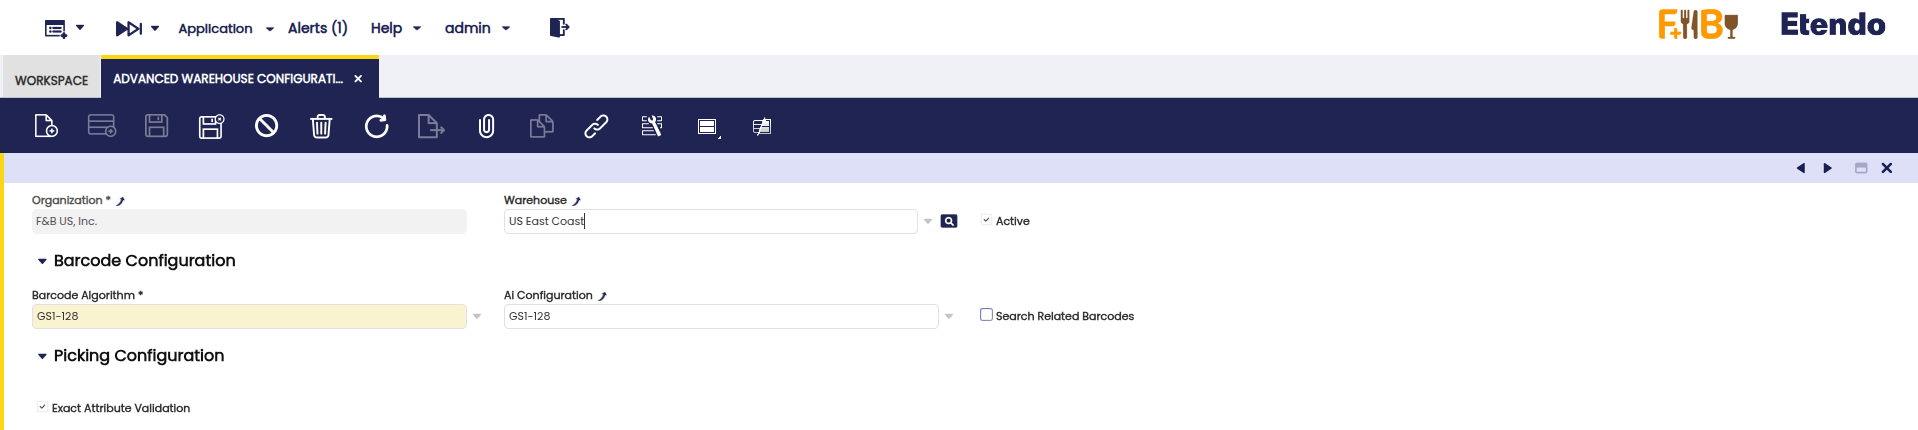
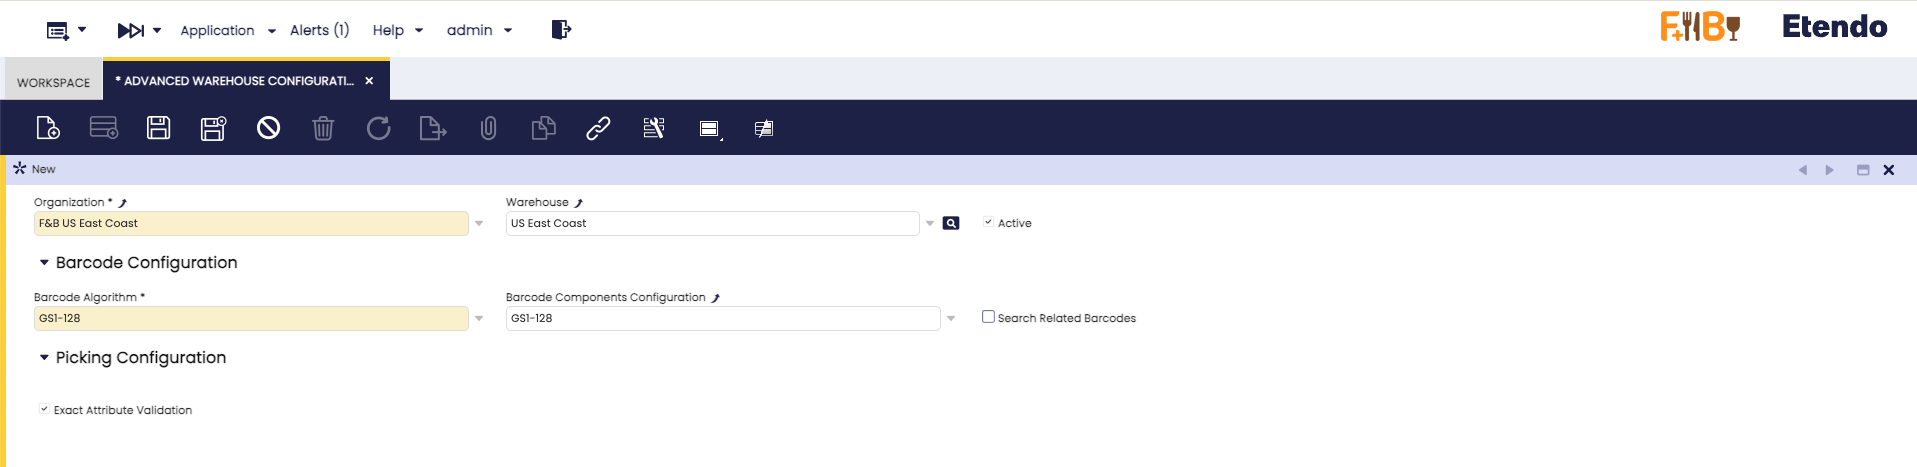
Feature ETP-2555: Docs Improvements

diff --git a/docs/user-guide/etendo-classic/optional-features/bundles/warehouse-extensions/advanced-warehouse-management.md b/docs/user-guide/etendo-classic/optional-features/bundles/warehouse-extensions/advanced-warehouse-management.md
@@ -86,7 +86,7 @@ To start using this module correctly, the following installation and configurati
             - [GS1-128](https://www.gs1.org/standards/barcodes){target="_blank"}
             - SimpleBarcode
 
-        - **AI Configuration**: A set of Application Identifiers defined by GS1 standards that are used in barcodes. That helps to distinguish different types of information. Each AI specifies the type of data that follows it, such as product identifiers (GTINs), lot numbers, expiration dates, or quantities.
+        - **Barcode Components Configuration**: A set of Application Identifiers defined by GS1 standards that are used in barcodes. That helps to distinguish different types of information. Each AI specifies the type of data that follows it, such as product identifiers (GTINs), lot numbers, expiration dates, or quantities.
 
         - **Search Related Barcode**: Checkbox, which allows the sub-app to search for the product by more than one barcode.
 
@@ -111,7 +111,8 @@ To start using this module correctly, the following installation and configurati
     
     ![](../../../../../assets/user-guide/etendo-classic/optional-features/bundles/warehouse-extensions/advanced-warehouse-management/barcode-components-configuration-win-1.png)
 
-    !!! important
+    !!! note
+
         The system allows any **application identifier (AI)** to be freely configured to associate it with custom attributes or fields, providing flexibility to adapt to different internal coding schemes. The module is installed with a predefined configuration based on the **GS1-128** standard, which ensures the correct interpretation of codes in accordance with international standards. Nevertheless, users can adjust or redefine identifiers according to their particular needs. In such cases, the system will interpret the codes according to the user-defined configuration, but will not interpret GS1-128 codes in the standard way.
 
     Fields to note:
@@ -144,11 +145,6 @@ To start using this module correctly, the following installation and configurati
     === ":material-playlist-plus: GS1-128"
         
         The [GS1-128](https://www.gs1.org/standards/barcodes){target="_blank"} standard is a globally used barcode format that encodes structured information through **Application Identifiers (AIs)**. Each AI specifies the type of data included, such as product identifiers, batch numbers, expiration dates, or logistics details. This enables detailed and standardized interpretation of product and warehouse information. For more details, see the [official GS1-128 documentation](https://www.gs1.org/standards/barcodes){target="_blank"}.
-
-        ![](../../../../../assets/user-guide/etendo-classic/optional-features/bundles/warehouse-extensions/ai-config-gs1128-1.png)
-
-        !!! warning
-            Etendo recognizes and validates only the identifiers shown in the list below. Identifiers 90–99 (GS1‑128) are reserved for company‑specific use and can be freely assigned and mapped; the system only includes support to define **custom product attributes** that are interpreted dynamically (for example, you can map a *color* attribute to AI 93). Any identifier not present in the configured list (other than the free-use 90–99 range) requires additional development to be interpreted. Using an unknown identifier will not produce an error, but its content will not be validated or applied by the system.    
         
         !!! info 
             As indicated in the standard, when using a variable-length identifier, a separator must be added. The value declared by the standard is **FNC1**
@@ -166,12 +162,26 @@ To start using this module correctly, the following installation and configurati
         | **(93)** | Free Use                             | -                                                                       | -               |
         | **(94)** | Free Use                             | -                                                                       | -               |
         | **(95)** | Free Use                             | -                                                                       | -               |
-        | **(95)** | Free Use                             | -                                                                       | -               |
+        | **(96)** | Free Use                             | -                                                                       | -               |
         | **(97)** | Free Use                             | -                                                                       | -               |
         | **(98)** | Free Use                             | -                                                                       | -               |
         | **(99)** | Free Use                             | -                                                                       | -               |
 
         Thanks to this configuration, when scanning a *GS1-128* barcode, it interprets the relevant information and applies it to the process in progress (receiving, picking, packing). For example, When it reads an identifier 91, it associates it with a locator or when it reads an identifier 92, it associates it with a logistics unit
+
+        !!! warning "Barcode identification rules"
+
+            Etendo interprets only the identifiers defined in this configuration.
+            GS1-128 identifiers 90–99 are free-use codes and can be assigned to custom product attributes.
+
+            By default:
+
+            - AI 91 and 92 are used by Etendo.
+            - AI 93–99 remain available for custom product attributes that are resolved dynamically (e.g., 93 = color, 94 = size).
+
+            Users may change both the identifiers and the attributes they reference. However, any change is the user’s responsibility and may cause inconsistencies with standard GS1-128 parsing or external integrations.
+
+            If a different interpretation is required, a developer can create a custom **barcode algorithm**.
 
         <figure markdown="span">
             ![](../../../../../assets/user-guide/etendo-classic/optional-features/bundles/warehouse-extensions/advanced-warehouse-management/barcode-components-configuration-attr-2.png)
